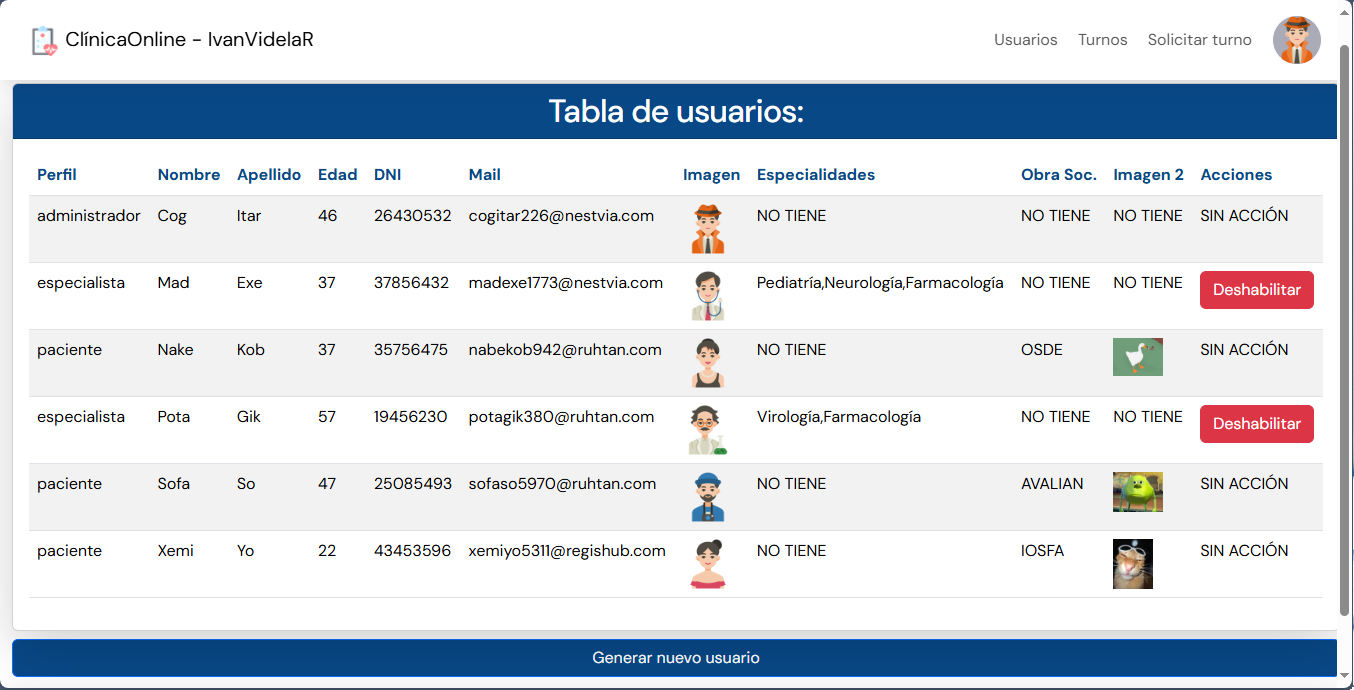
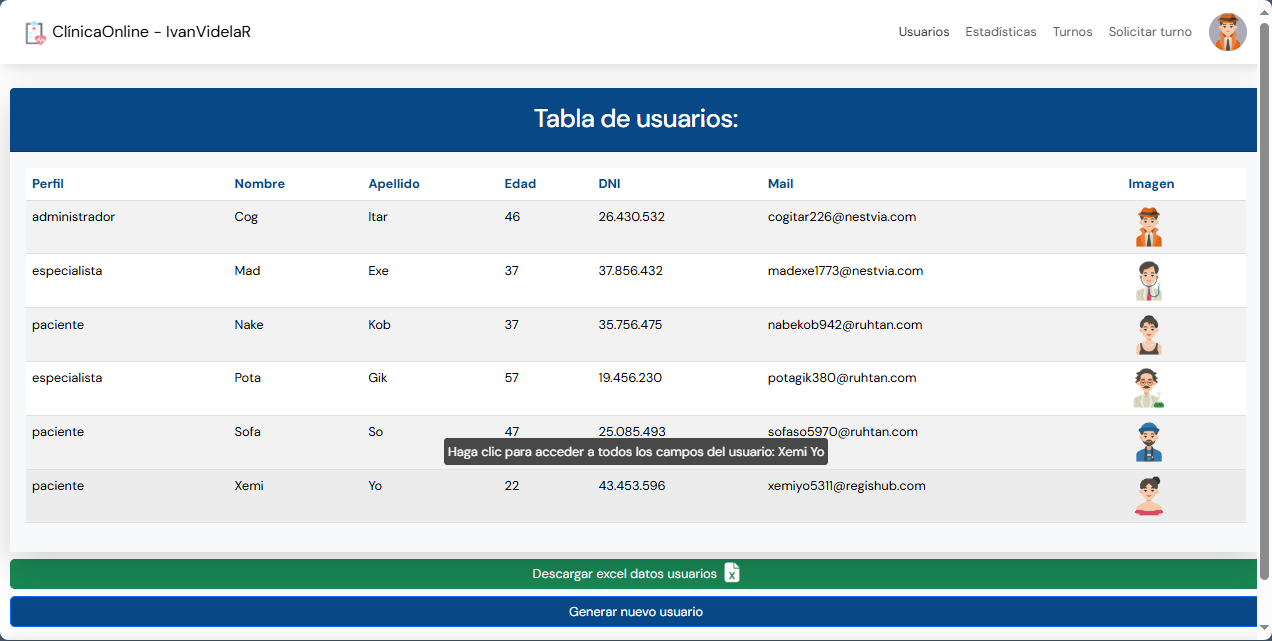
📝 Actualizo readme con todos los sprints hasta el 4
Actualizo readme con todos los sprints hasta el 4

diff --git a/README.md b/README.md
@@ -167,16 +167,31 @@ y administración de la misma.
 ### Mi Perfil (Especialista)
 ![Mi Perfil Especialista](./public/readme-md/mi-perfil-especialista.png)
 
+### Mi Perfil (Paciente)
+![Mi Perfil Paciente](./public/readme-md/mi-perfil-paciente.png)
+
 ### Gestionar Horarios del Especialista
 ![Gestionar Horarios](./public/readme-md/gestionar-horarios.png)
 
-## Sección usuarios (Admin)
+## Gestión de usuarios (Admininistrador)
 
 ### Usuarios Administrados
 ![Usuarios](./public/readme-md/usuarios.png)
 
 ### Generar un Usuario 
 ![Generar Usuario](./public/readme-md/generar-usuario.png)
+
+### Elección de Usuarios
+![Usuarios Elección Admin](./public/readme-md/usuarios-eleccion-admin.png)
+![Usuarios Elección Especialista](./public/readme-md/usuarios-eleccion-especialista.png)
+![Usuarios Elección Paciente](./public/readme-md/usuarios-eleccion-paciente.png)
+
+### Descarga de Datos de Usuarios
+
+#### Datos generales: 
+![Usuarios Descargar Excel](./public/readme-md/usuarios-descargar-excel-datos.png)
+#### Datos individuales del paciente seleccionado: 
+![Usuarios Descargar Excel](./public/readme-md/usuarios-descargar-excel-turnos-tomados.png)
 
 ## Solicitar un Turno
 
@@ -193,6 +208,9 @@ y administración de la misma.
 ![Solicitar Turno Paciente 1](./public/readme-md/solicitar-turno-2.png)
 
 ## Gestión de Turnos
+
+### Tabla de Turnos
+![Tabla Turnos](./public/readme-md/tabla-turnos.png)
 
 ### Cancelar un Turno (Admin, Paciente y Especialista)
 ![Cancelar Turno](./public/readme-md/cancelar-turno.png)
@@ -224,12 +242,39 @@ y administración de la misma.
 ### Finalizar un Turno (Especialista)
 ![Finalizar Turno](./public/readme-md/finalizar-turno.png)
 
+## Historia Clínica
 
+### Visualización Historia Clínica (Parte 1)
+![Historia Clínica 1](./public/readme-md/historia-clinica-perfil-paciente-1.png)
 
+### Visualización Historia Clínica (Parte 2)
+![Historia Clínica 2](./public/readme-md/historia-clinica-perfil-paciente-2.png)
 
+### Exportar Informe en PDF
+![Historia Clínica Informe PDF](./public/readme-md/historia-clinica-perfil-paciente-informe-pdf.png)
 
+## Estadísticas y Gráficos
 
+### Log de Ingresos al Sistema
+![Log Ingresos 1](./public/readme-md/estadisticas-log-ingresos-admin-1.png)
+![Log Ingresos 2](./public/readme-md/estadisticas-log-ingresos-admin-2.png)
+![Log Ingresos Excel](./public/readme-md/estadisticas-log-ingresos-admin-excel.png)
 
+### Cantidad de Turnos por Especialidad
+![Turnos Especialidad Gráfico](./public/readme-md/estadisticas-cant-turnos-especialidad-admin.png)
+![Turnos Especialidad PDF](./public/readme-md/estadisticas-cant-turnos-especialidad-admin-pdf.png)
+
+### Cantidad de Turnos por Día
+![Turnos Día Gráfico](./public/readme-md/estadisticas-cant-turnos-dia-admin.png)
+![Turnos Día PDF](./public/readme-md/estadisticas-cant-turnos-dia-admin-pdf.png)
+
+### Cantidad de Turnos solicitados en un lapso de tiempo
+![Turnos Solicitados Gráfico](./public/readme-md/estadisticas-cant-turnos-solicitados-admin.png)
+![Turnos Solicitados PDF](./public/readme-md/estadisticas-cant-turnos-solicitados-admin-pdf.png)
+
+### Cantidad de Turnos finalizados en un lapso de tiempo
+![Turnos Finalizados Gráfico](./public/readme-md/estadisticas-cant-turnos-finalizados-admin.png)
+![Turnos Finalizados PDF](./public/readme-md/estadisticas-cant-turnos-finalizados-admin-pdf.png)
 
 
 
